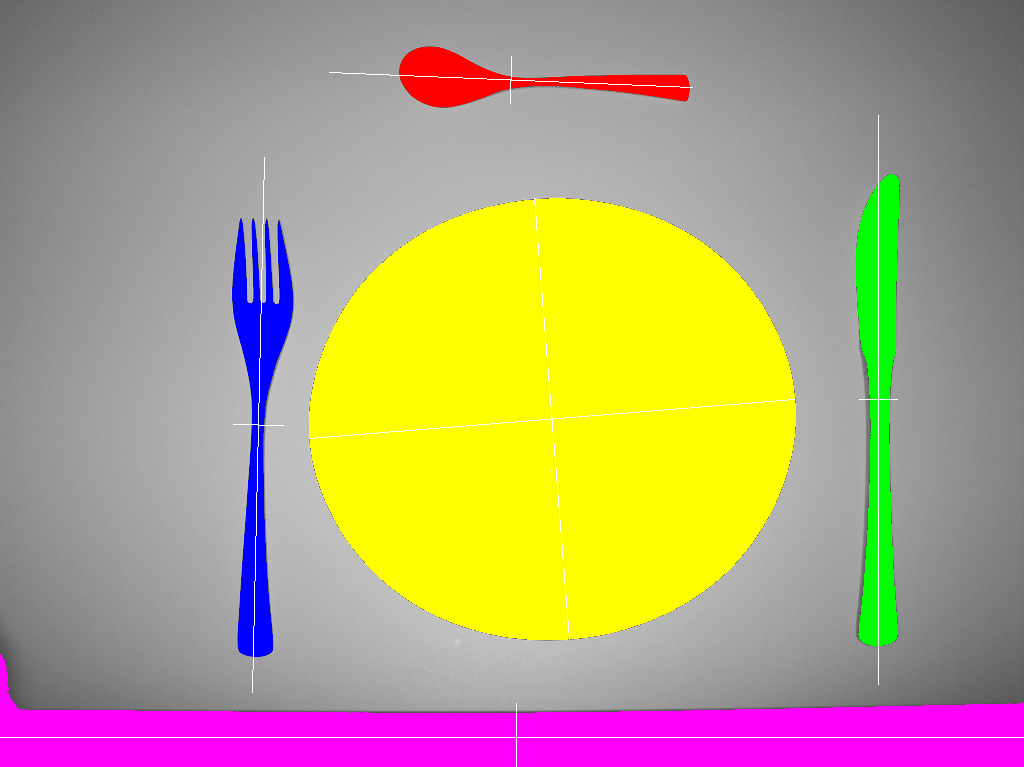
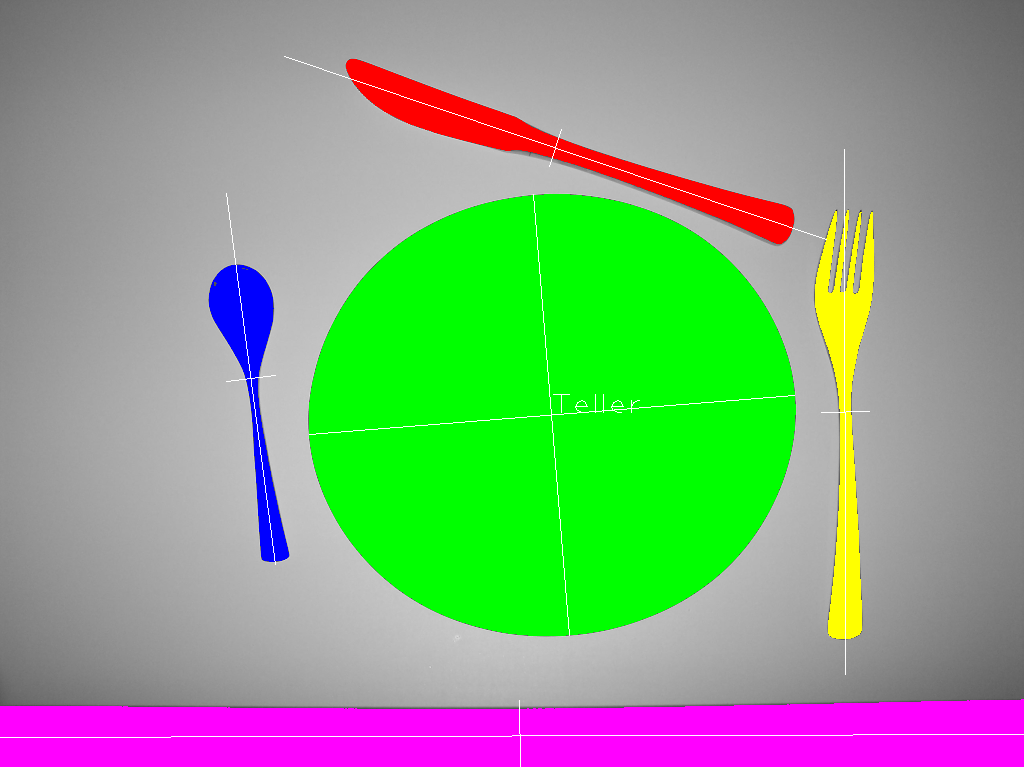
plate classified

diff --git a/ebvassignment01/EBV Assignment 1/EBV Assignment 1/Region.cpp b/ebvassignment01/EBV Assignment 1/EBV Assignment 1/Region.cpp
@@ -23,7 +23,7 @@ void Region::eigenDecompositionSymmetric(const Matrix2x2& a, double& phi, double
 }
 
 void Region::computeMoments(std::vector<Region> &region, const RegionSet &decomposition) {
-	//TODO: Implement (2P)
+	// (2P)
 	std::vector<Interval> rle = decomposition.rle;
 	Interval I;
 
@@ -42,6 +42,7 @@ void Region::computeMoments(std::vector<Region> &region, const RegionSet &decomp
 }
 
 void Region::computeFeatures() {
+	// (2P)
 	double dIntegralXX, dIntegralXY, dIntegralYY, eig1, eig2, c, s;
 
 	centerX  = integralX / integral;
@@ -59,8 +60,8 @@ void Region::computeFeatures() {
 	eig1 = c * c * dIntegralXX + 2 * c * s * dIntegralXY + s * s * dIntegralYY;
 	eig2 = s * s * dIntegralXX - 2 * c * s * dIntegralXY + c * c * dIntegralYY;
 
-	largeLength = 2 * std::sqrt(eig1);
-	smallLength = 2 * std::sqrt(eig2);
+	largeLength = 2 * std::sqrt(eig1); // shouldn't that be called small length since it's shorter?
+	smallLength = 2 * std::sqrt(eig2); // and this large length?
 }
 
 
@@ -69,4 +70,16 @@ void Region::classify() {
 	// Use features computed to label the regions as Teller/Messer/Gabel/Loeffel
 	// This function is highly dependent on the concrete setting.
 	// It's okay to use fixed thresholds.
+	// std::cout << "Center point: " << centerX << ' ' << centerY << std::endl;
+	// std::cout << "main axis angle: " << mainAxis << std::endl;
+	// std::cout << "axis lengths: " << smallLength << ' ' << largeLength << std::endl << std::endl;
+
+	// actually should be "largeLength / smallLength"...
+	// but for some reason small length is bigger than large length with the formulas given in the lecture...
+	// maybe smallLength should be called longLength instead and vice versa?
+	
+	if (smallLength / largeLength <= 1.2 && integral >= 5000){
+		label = "Teller";
+		return;
+	}
 }

diff --git a/ebvassignment01/EBV Assignment 1/EBV Assignment 1/RegionSet.cpp b/ebvassignment01/EBV Assignment 1/EBV Assignment 1/RegionSet.cpp
@@ -1,6 +1,7 @@
 #include "RegionSet.hpp"
 
 void RegionSet::thresholdAndRLE(cv::Mat_<uchar>& image, uchar threshold, int minLength) {
+	// (2P)
 	unsigned int length;
 	for (unsigned int i = 0; i < image.rows; ++i){
 		length = 0;
@@ -68,6 +69,7 @@ bool RegionSet::ahead(Interval* run, Interval* flw) {
 }
 
 void RegionSet::groupRegions() {
+	// (3P)
 	initialize();
 	std::vector<Interval>::iterator flw, run;
 	flw = run = rle.begin();
